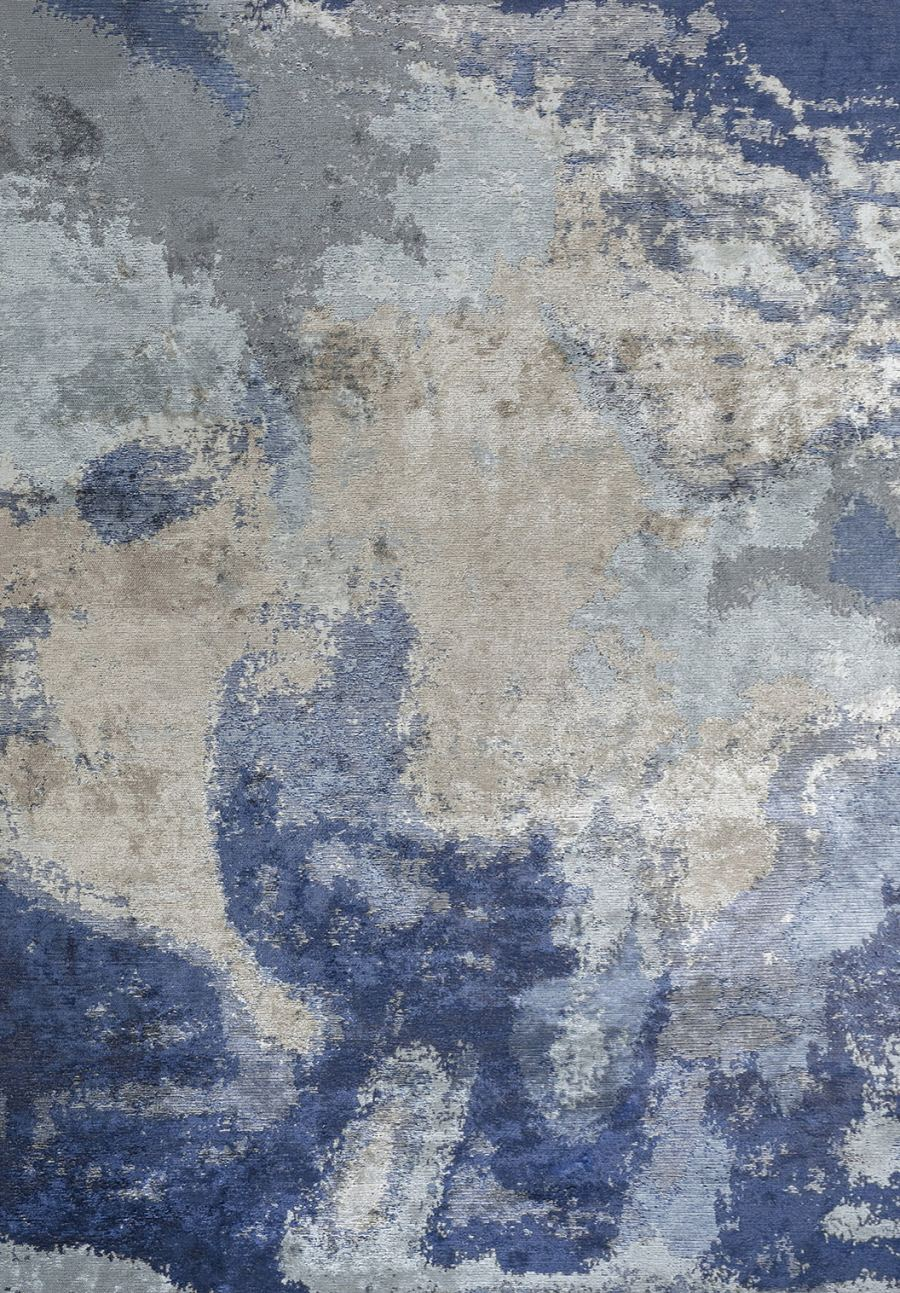
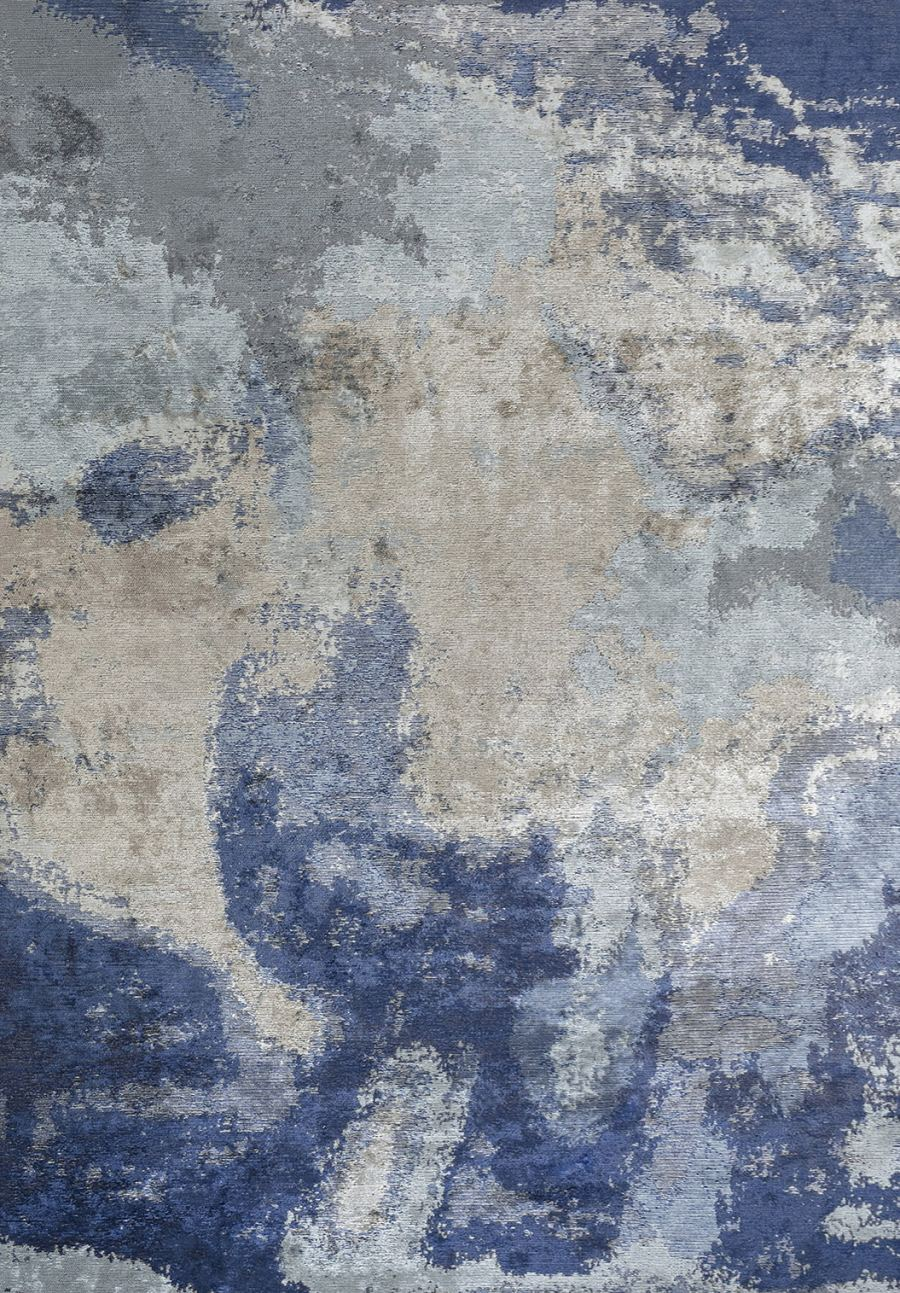
MIST gerçek ürün fotoğrafından üretiliyor; hazır renkler kör, ürün fotoğrafıyla kıyaslanabilir

diff --git a/index.html b/index.html
@@ -11,10 +11,12 @@ html,body{margin:0;background:#fff;color:#000}
 .test-bandi{display:flex;flex-wrap:wrap;align-items:center;justify-content:center;gap:4px 12px;padding-block:10px;padding-left:max(16px,env(safe-area-inset-left,0px));padding-right:max(16px,env(safe-area-inset-right,0px));
   background:#000;color:#fff;font:400 12px/1.5 Lato,'Helvetica Neue',Arial,sans-serif;text-align:center}
 .test-bandi b{padding:1px 8px;border:1px solid #fff;font-weight:700;letter-spacing:.08em;text-transform:uppercase}
+.test-bandi .test-not{flex-basis:100%;color:#cfcfcf}
 </style>
 </head>
 <body>
-<div class="test-bandi" lang="tr"><b>Test sürümü</b><span>Bu sayfa deneme aşamasındadır ve bmhome.com.tr'de henüz yayında değildir. Desen ve renk listesi örnektir, geliştirme sürdükçe değişecektir.</span></div>
+<div class="test-bandi" lang="tr"><b>Test sürümü</b><span>Bu sayfa deneme aşamasındadır ve bmhome.com.tr'de henüz yayında değildir. Desen ve renk listesi örnektir, geliştirme sürdükçe değişecektir.</span>
+<span class="test-not">MIST deseninde hazır renklerden birini seçip «Ürün fotoğrafıyla kıyasla» düğmesine basın: önizleme o ürünün kendi fotoğrafı kullanılmadan üretilir ve gerçek fotoğrafla yan yana gösterilir.</span></div>
 <div class="sarmal">
 <div class="bmt" id="bmt" lang="tr">
   <header class="bmt-bas">
@@ -334,16 +336,81 @@ html,body{margin:0;background:#fff;color:#000}
     c.globalCompositeOperation = 'source-over';
   }
 
-  function ciz() {
-    var no = ++cizimNo, d = durum.desen, kodlar = durum.renk.slice();
-    var bekle = setTimeout(function () { $('yukleniyor').hidden = false; }, 160);
+  /* Katman yöntemi: düz halı fotoğrafları alan maskeleriyle üst üste */
+  function katmanHazirla(d, kodlar) {
     return Promise.all([
       Promise.all(kodlar.map(function (k) { return yukle(dokuYolu(k)); })),
       Promise.all(d.alanlar.map(function (a) { return a.maske ? yukle(a.maske) : null; })),
       yukle(d.golge)
     ]).then(function (s) {
+      return function (c) { bilesik(c, s[0], s[1], s[2]); };
+    });
+  }
+
+  /* Görselden yöntem: gerçek ürün fotoğrafının ışığı/dokusu × iplik karışımı (doğrusal ışıkta).
+     oran.png: R,G,B = 2.-4. ipliğin payı (1. iplik kalan); isik-*.jpg: tabandaki ışık oranı (0..2, 127,5 = 1).
+     Hazır renkler kördür: kendi fotoğrafı taban olmaz, renkleri başka ürünlerde ölçülenlerden gelir. */
+  var pikselOnbellek = {};
+  function piksel(yol) {
+    if (!pikselOnbellek[yol]) {
+      pikselOnbellek[yol] = yukle(yol).then(function (im) {
+        var c = document.createElement('canvas');
+        c.width = im.naturalWidth; c.height = im.naturalHeight;
+        var x = c.getContext('2d', { willReadFrequently: true });
+        x.drawImage(im, 0, 0);
+        return x.getImageData(0, 0, c.width, c.height).data;
+      });
+      pikselOnbellek[yol].catch(function () { delete pikselOnbellek[yol]; });
+    }
+    return pikselOnbellek[yol];
+  }
+  var SRGB = new Uint8ClampedArray(4096);
+  for (var q = 0; q < 4096; q++) {
+    var l = q / 4095;
+    SRGB[q] = Math.round((l <= 0.0031308 ? l * 12.92 : 1.055 * Math.pow(l, 1 / 2.4) - 0.055) * 255);
+  }
+  function Lstar(c) {
+    var y = 0.2126 * c[0] + 0.7152 * c[1] + 0.0722 * c[2];
+    return y > 0.008856 ? 116 * Math.cbrt(y) - 16 : 903.3 * y;
+  }
+  function fotoSecim(d, kodlar) {
+    var h = hazirBul();
+    if (h && h.kor) {
+      return { renk: h.kor.renk, taban: d.tabanlar.filter(function (t) { return t.kodlar.join('-') === h.kor.taban; })[0] };
+    }
+    // yeni kombinasyon: renkler ürün fotoğraflarındaki ölçümlerden, taban bölge bölge açıklığı en yakın fotoğraf
+    var renk = kodlar.map(function (k) { return VERI.urun_renkleri[k]; }), taban = null, enIyi = Infinity;
+    d.tabanlar.forEach(function (t) {
+      var p = 0;
+      for (var i = 0; i < renk.length; i++) p += d.oranlar[i] * Math.abs(Lstar(t.renk[i]) - Lstar(renk[i]));
+      if (p < enIyi) { enIyi = p; taban = t; }
+    });
+    return { renk: renk, taban: taban };
+  }
+  function fotoHazirla(d, kodlar) {
+    var s = fotoSecim(d, kodlar), w = d.olcu[0], h = d.olcu[1];
+    return Promise.all([piksel(d.oran), piksel(s.taban.isik)]).then(function (p) {
+      var o = p[0], k = p[1], c0 = s.renk[0], c1 = s.renk[1], c2 = s.renk[2], c3 = s.renk[3];
+      var img = new ImageData(w, h), out = img.data, n = w * h;
+      for (var i = 0, j = 0; i < n; i++, j += 4) {
+        var f1 = o[j] / 255, f2 = o[j + 1] / 255, f3 = o[j + 2] / 255, f0 = 1 - f1 - f2 - f3;
+        if (f0 < 0) f0 = 0;
+        var r = k[j] * 4095 / 127.5;
+        out[j] = SRGB[Math.min(4095, r * (f0 * c0[0] + f1 * c1[0] + f2 * c2[0] + f3 * c3[0]) | 0)];
+        out[j + 1] = SRGB[Math.min(4095, r * (f0 * c0[1] + f1 * c1[1] + f2 * c2[1] + f3 * c3[1]) | 0)];
+        out[j + 2] = SRGB[Math.min(4095, r * (f0 * c0[2] + f1 * c1[2] + f2 * c2[2] + f3 * c3[2]) | 0)];
+        out[j + 3] = 255;
+      }
+      return function (ctx) { ctx.putImageData(img, 0, 0); };
+    });
+  }
+
+  function ciz() {
+    var no = ++cizimNo, d = durum.desen, kodlar = durum.renk.slice();
+    var bekle = setTimeout(function () { $('yukleniyor').hidden = false; }, 160);
+    return (d.yontem === 'foto' ? fotoHazirla(d, kodlar) : katmanHazirla(d, kodlar)).then(function (boya) {
       if (no !== cizimNo) return;
-      bilesik(gecis.getContext('2d'), s[0], s[1], s[2]);
+      boya(gecis.getContext('2d'));
       if (ilk || azHareket) { ilk = false; aktar(); return; }
       gecis.classList.remove('is-in');
       void gecis.offsetWidth;
@@ -364,6 +431,27 @@ html,body{margin:0;background:#fff;color:#000}
   /* Seçilen alanı halının üzerinde kısa bir parlamayla göster */
   function vurgula(i) {
     var v = $('vurgu'), c = v.getContext('2d'), d = durum.desen;
+    function parlat() {
+      v.classList.remove('is-on');
+      void v.offsetWidth;
+      v.classList.add('is-on');
+    }
+    if (d.yontem === 'foto') {
+      piksel(d.oran).then(function (o) {
+        if (d !== durum.desen) return;
+        var w = v.width, h = v.height, OW = d.olcu[0], OH = d.olcu[1], img = c.createImageData(w, h), out = img.data;
+        for (var y = 0; y < h; y++) {
+          for (var x = 0; x < w; x++) {
+            var j = (Math.floor(y * OH / h) * OW + Math.floor(x * OW / w)) * 4, t = (y * w + x) * 4;
+            out[t] = out[t + 1] = out[t + 2] = 255;
+            out[t + 3] = i === 0 ? 255 - o[j] - o[j + 1] - o[j + 2] : o[j + i - 1];
+          }
+        }
+        c.putImageData(img, 0, 0);
+        parlat();
+      });
+      return;
+    }
     var maskeler = d.alanlar.map(function (a) { return a.maske ? yukle(a.maske) : null; });
     Promise.all(maskeler).then(function (m) {
       if (d !== durum.desen) return;
@@ -416,6 +504,25 @@ html,body{margin:0;background:#fff;color:#000}
   var haritalar = {};
   function haritaHazirla(d) {
     if (haritalar[d.id]) return;
+    if (d.yontem === 'foto') {
+      piksel(d.oran).then(function (o) {
+        var g = 112, y = 161, v = new Uint8Array(g * y), OW = d.olcu[0], OH = d.olcu[1];
+        for (var yy = 0; yy < y; yy++) {
+          for (var xx = 0; xx < g; xx++) {
+            var pay = [0, 0, 0, 0];
+            for (var s = 0; s < 4; s++) {  // hücre içinde 2x2 örnek: çizgili karışımlarda tek piksel yanıltmasın
+              var j = (Math.floor((yy + .25 + (s >> 1) * .5) * OH / y) * OW + Math.floor((xx + .25 + (s & 1) * .5) * OW / g)) * 4;
+              pay[0] += 255 - o[j] - o[j + 1] - o[j + 2]; pay[1] += o[j]; pay[2] += o[j + 1]; pay[3] += o[j + 2];
+            }
+            var en = 0;
+            for (var i = 1; i < 4; i++) if (pay[i] > pay[en]) en = i;
+            v[yy * g + xx] = en;
+          }
+        }
+        haritalar[d.id] = { g: g, y: y, v: v };
+      }).catch(function () {});
+      return;
+    }
     Promise.all(d.alanlar.map(function (a) { return a.maske ? yukle(a.maske) : null; })).then(function (m) {
       var g = 112, y = 161, n = g * y, c = document.createElement('canvas');
       c.width = g; c.height = y;
